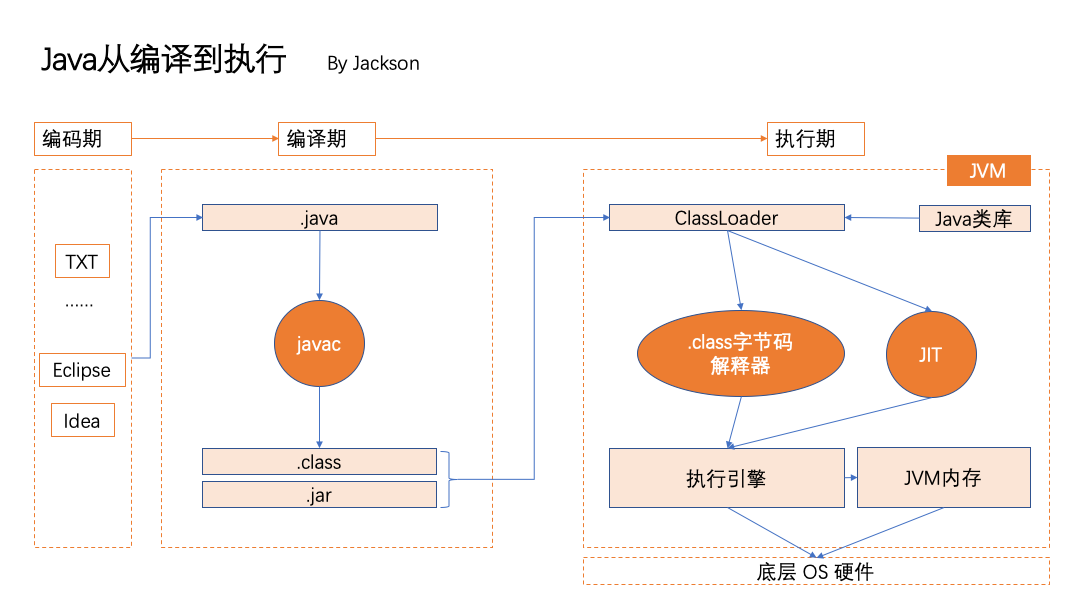
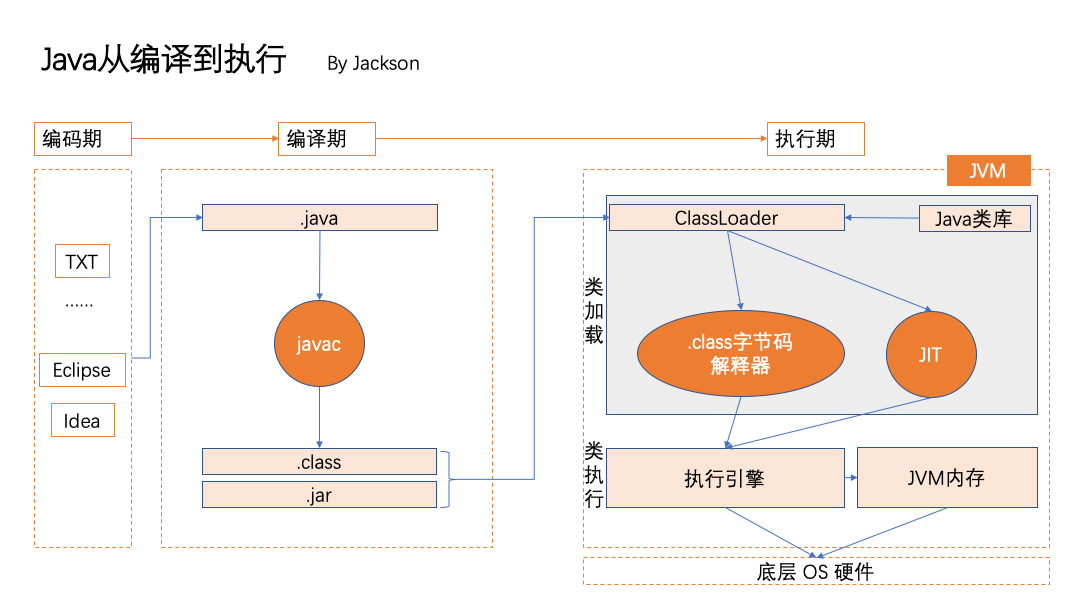
增加JAVA类加载过程

diff --git a/language-base/javabase/src/main/java/com/github/opensharing/javabase/jvm/classloading/readme.md b/language-base/javabase/src/main/java/com/github/opensharing/javabase/jvm/classloading/readme.md
@@ -6,7 +6,23 @@
 
 - 1.2 对象的内存布局: language-base/docs/image/JavaObjectLayout.png
   >[参考](https://www.cnblogs.com/JonaLin/p/13864578.html) 使用openjdk的工具jol
-    
+
+- 1.3 类加载过程: language-base/javabase/docs/image/类加载的过程.png（TODO：图解）
+
+  - 1.3.1  Loading
+    >1. 双亲委派，主要出于安全来考虑
+    >2. LazyLoading
+    >3. ClassLoader（源码解析：findInCache -> parent.loadClass -> findClass()）
+    >4. 自定义类加载器
+
+  - 1.3.2. Linking 
+    >1. Verification：验证文件是否符合JVM规定
+    >2. Preparation：静态成员变量赋默认值
+    >3. Resolution：1）将类、方法、属性等符号引用解析为直接引用；2）常量池中的各种符号引用解析为指针、偏移量等内存地址的直接引用
+
+  - 1.3.3. Initializing
+    >1. 调用类初始化代码 <clinit>，给静态成员变量赋初始值
+      
 #### 2. 案例实践
 
 - 2.1 对象的内存布局: JavaObjectLayoutObjectSizeDemo
